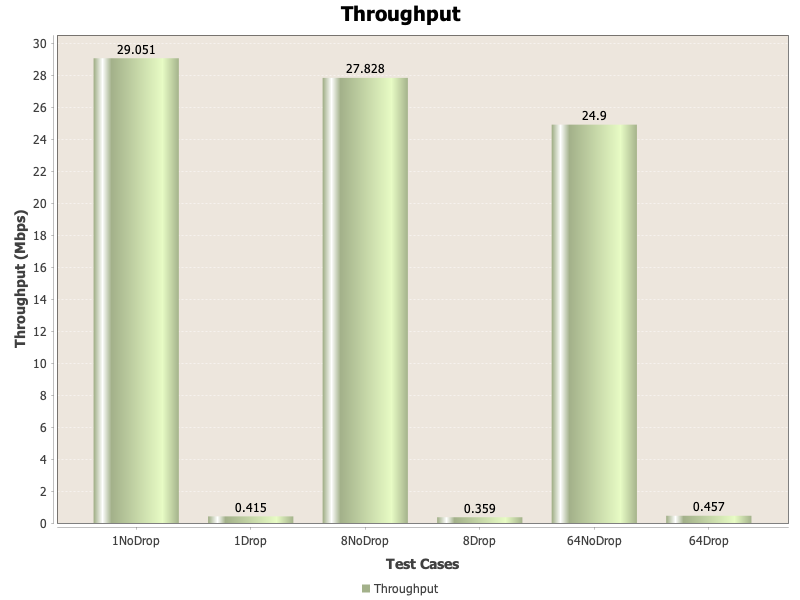
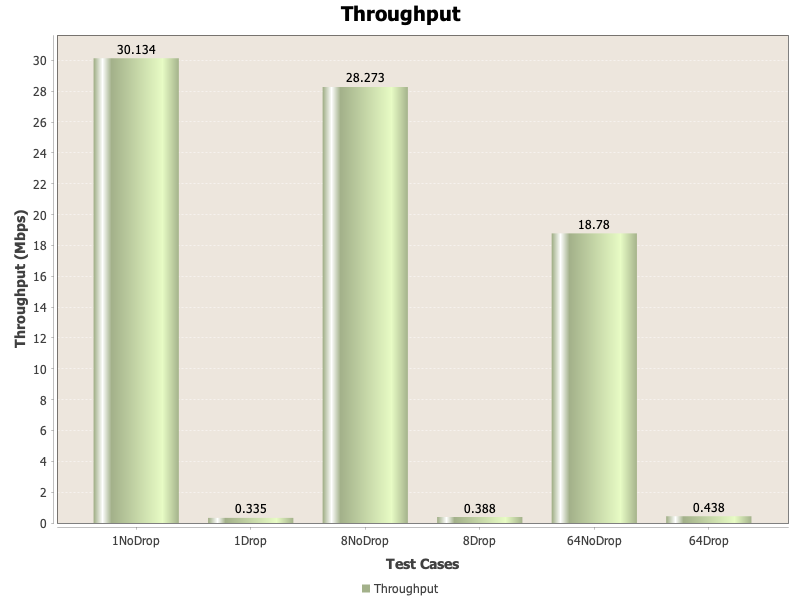
Client receives in order

diff --git a/src/main/java/local-local/htmlFiles/drop_enable_64_throughput.html b/src/main/java/local-local/htmlFiles/drop_enable_64_throughput.html
@@ -6,8 +6,8 @@
     </div> 
     <div style='flex: 1; padding-left: 20px; align-content:end;'> 
       <p>File Size: 1281499 bytes</p> 
-      <p>Elapsed Time: 22.452 seconds</p> 
-      <p>Throughput: 0.45662692338388566 Mbps</p> 
+      <p>Elapsed Time: 23.410 seconds</p> 
+      <p>Throughput: 0.43792801515256885 Mbps</p> 
     </div>
   </div> 
 </div> 

diff --git a/src/main/java/local-local/htmlFiles/drop_enable_1_throughput.html b/src/main/java/local-local/htmlFiles/drop_enable_1_throughput.html
@@ -6,8 +6,8 @@
     </div> 
     <div style='flex: 1; padding-left: 20px; align-content:end;'> 
       <p>File Size: 1882548 bytes</p> 
-      <p>Elapsed Time: 36.308 seconds</p> 
-      <p>Throughput: 0.4147934830058816 Mbps</p> 
+      <p>Elapsed Time: 44.991 seconds</p> 
+      <p>Throughput: 0.33474448187944544 Mbps</p> 
     </div>
   </div> 
 </div> 

diff --git a/src/main/java/local-local/htmlFiles/drop_enable_8_throughput.html b/src/main/java/local-local/htmlFiles/drop_enable_8_throughput.html
@@ -6,8 +6,8 @@
     </div> 
     <div style='flex: 1; padding-left: 20px; align-content:end;'> 
       <p>File Size: 1187342 bytes</p> 
-      <p>Elapsed Time: 26.485 seconds</p> 
-      <p>Throughput: 0.35864502360559336 Mbps</p> 
+      <p>Elapsed Time: 24.478 seconds</p> 
+      <p>Throughput: 0.388055520783923 Mbps</p> 
     </div>
   </div> 
 </div> 

diff --git a/src/main/java/local-local/htmlFiles/drop_disable_1_throughput.html b/src/main/java/local-local/htmlFiles/drop_disable_1_throughput.html
@@ -6,8 +6,8 @@
     </div> 
     <div style='flex: 1; padding-left: 20px; align-content:end;'> 
       <p>File Size: 1882548 bytes</p> 
-      <p>Elapsed Time: 0.518 seconds</p> 
-      <p>Throughput: 29.05140747924462 Mbps</p> 
+      <p>Elapsed Time: 0.500 seconds</p> 
+      <p>Throughput: 30.134147561517313 Mbps</p> 
     </div>
   </div> 
 </div> 

diff --git a/src/main/java/local-local/htmlFiles/drop_disable_64_throughput.html b/src/main/java/local-local/htmlFiles/drop_disable_64_throughput.html
@@ -6,8 +6,8 @@
     </div> 
     <div style='flex: 1; padding-left: 20px; align-content:end;'> 
       <p>File Size: 1281499 bytes</p> 
-      <p>Elapsed Time: 0.412 seconds</p> 
-      <p>Throughput: 24.89984145113164 Mbps</p> 
+      <p>Elapsed Time: 0.546 seconds</p> 
+      <p>Throughput: 18.779500067776244 Mbps</p> 
     </div>
   </div> 
 </div> 

diff --git a/src/main/java/local-local/htmlFiles/drop_disable_8_throughput.html b/src/main/java/local-local/htmlFiles/drop_disable_8_throughput.html
@@ -6,8 +6,8 @@
     </div> 
     <div style='flex: 1; padding-left: 20px; align-content:end;'> 
       <p>File Size: 1187342 bytes</p> 
-      <p>Elapsed Time: 0.341 seconds</p> 
-      <p>Throughput: 27.82751623547358 Mbps</p> 
+      <p>Elapsed Time: 0.336 seconds</p> 
+      <p>Throughput: 28.27312248941074 Mbps</p> 
     </div>
   </div> 
 </div> 

diff --git a/src/main/java/Client.java b/src/main/java/Client.java
@@ -1,6 +1,8 @@
 import java.io.*;
 import java.net.Socket;
+import java.util.Map;
 import java.util.Random;
+import java.util.TreeMap;
 
 public class Client {
     private static final String PROXY_HOST = "localhost";
@@ -75,34 +77,48 @@ public class Client {
 
     private static void receiveFileWithSlidingWindow(DataInputStream in, DataOutputStream out, String fileName, long key)
             throws IOException {
+        // Create the temporary directory if it doesn't exist.
         File tempDir = new File(host_to_server + File.separator + "temp");
         if (!tempDir.exists()) {
             tempDir.mkdirs();
         }
         File outputFile = new File(tempDir, fileName);
+
+        // Use a TreeMap to hold packets in sorted order by sequence number.
+        TreeMap<Integer, byte[]> packetMap = new TreeMap<>();
+
+        // Read packets until termination.
+        while (true) {
+            int seq;
+            try {
+                seq = in.readInt();
+            } catch (EOFException e) {
+                System.out.println("End of stream reached.");
+                break;
+            }
+            if (seq == -1) {  // Termination packet.
+                break;
+            }
+            int length = in.readInt();
+            byte[] encryptedBuffer = new byte[length];
+            in.readFully(encryptedBuffer);
+
+            // Decrypt the received data.
+            byte[] buffer = Encryption.encryptDecrypt(encryptedBuffer, key);
+
+            // Store the packet by its sequence number.
+            packetMap.put(seq, buffer);
+
+            // Send an acknowledgment for this packet.
+            out.writeInt(seq);
+            out.flush();
+            System.out.println("Sent ACK for packet: " + seq);
+        }
+
+        // After all packets are received, write them in the correct order.
         try (FileOutputStream fileOut = new FileOutputStream(outputFile)) {
-            while (true) {
-                int seq;
-                try {
-                    seq = in.readInt();
-                } catch (EOFException e) {
-                    System.out.println("End of stream reached.");
-                    break;
-                }
-                if (seq == -1) {  // Termination packet.
-                    break;
-                }
-                int length = in.readInt();
-                byte[] encryptedBuffer = new byte[length];
-                in.readFully(encryptedBuffer);
-                // Decrypt the received data.
-                byte[] buffer = Encryption.encryptDecrypt(encryptedBuffer, key);
-                fileOut.write(buffer);
-                fileOut.flush();
-                // Send acknowledgment.
-                out.writeInt(seq);
-                out.flush();
-                System.out.println("Sent ACK for packet: " + seq);
+            for (Map.Entry<Integer, byte[]> entry : packetMap.entrySet()) {
+                fileOut.write(entry.getValue());
             }
         }
     }
